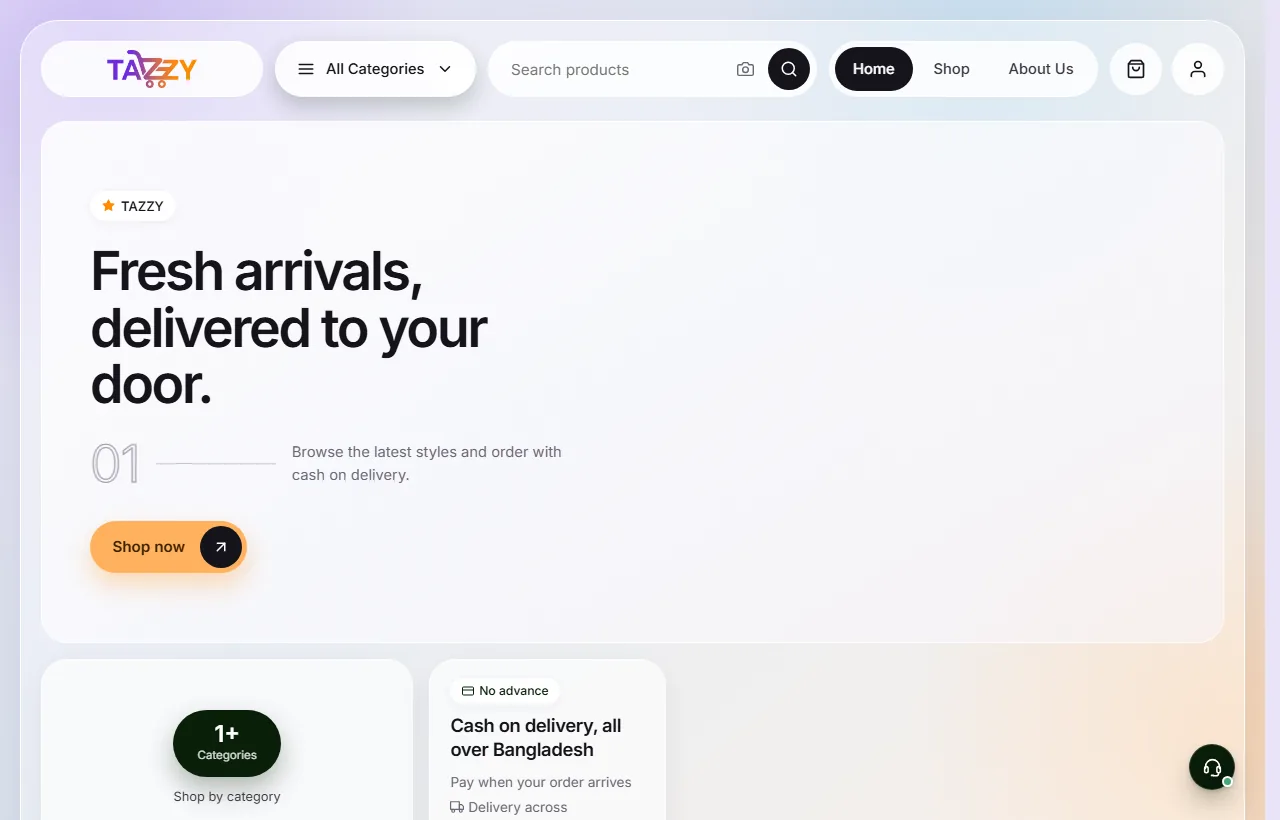
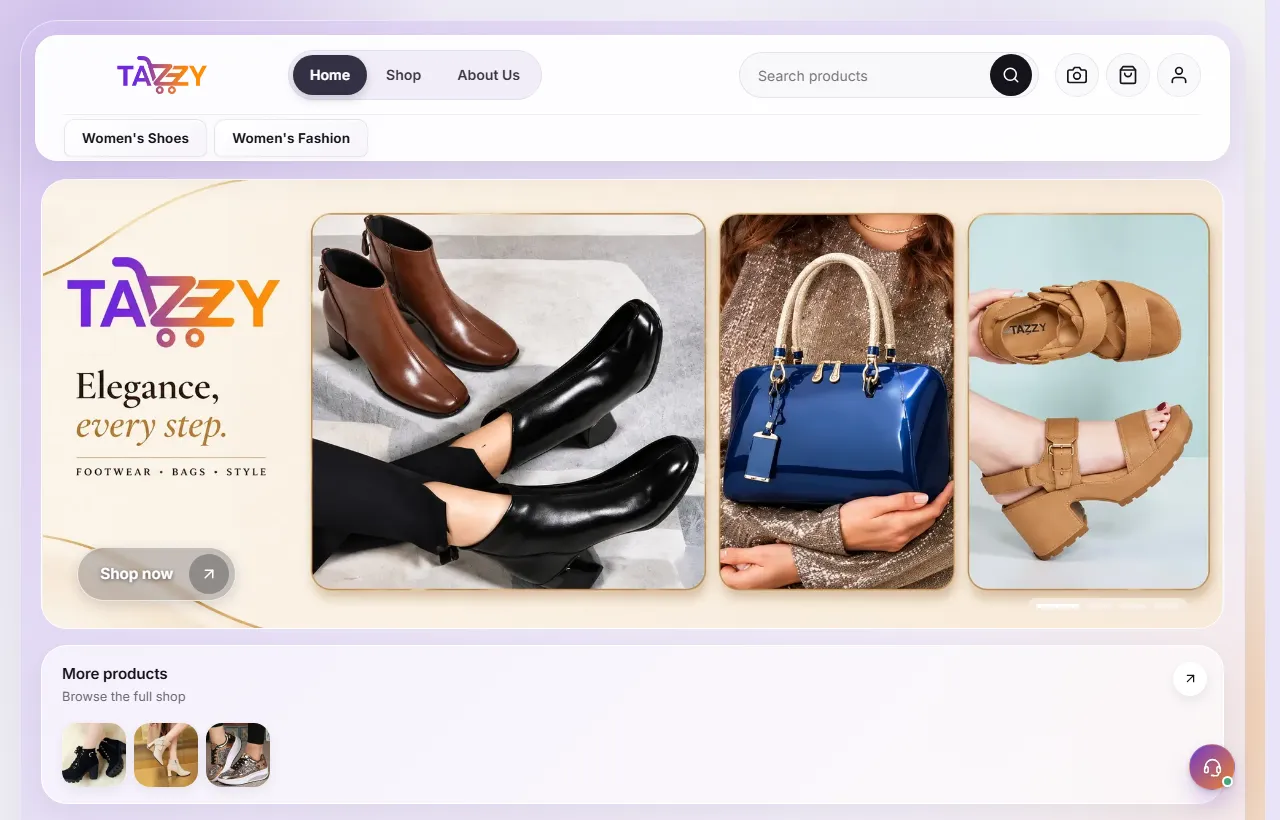
Update TAZZY project to match the live site
Refresh the project card, chat answers and AI prompt with the current
tazzybd.com details: ladies' fashion (shoes, bags, accessories), the
FRENDY BD rebrand, bKash/Nagad/Rocket/Upay/card payments, sale and
pre-order labels. Replace the screenshot with a fresh capture and bump
the sitemap lastmod.

diff --git a/index.html b/index.html
@@ -1591,12 +1591,13 @@ body.ask-open .ask-panel{opacity:1;visibility:visible;transform:none}
         </div>
         <h3>TAZZY</h3>
         <p class="p-tagline">Premium Fashion &amp; Footwear in Bangladesh</p>
-        <p class="p-desc">An online store for fashion and footwear, built for shoppers across Bangladesh. We designed and custom-built the whole storefront — no WordPress, no page builders. Customers browse by category, search products, add to cart and order with cash on delivery to all 64 districts, with order tracking and WhatsApp support one tap away.</p>
+        <p class="p-desc">The online home of TAZZY (formerly FRENDY BD), a ladies&rsquo; fashion brand from Dhaka selling shoes, boots, bags and accessories across Bangladesh. We designed and custom-built the whole storefront — no WordPress, no page builders. Shoppers browse by category, see sale prices and pre-order items, and check out with cash on delivery, bKash, Nagad or card, delivered to all 64 districts.</p>
         <ul class="feat">
-          <li><svg><use href="#i-check"/></svg>Category catalog with product search</li>
+          <li><svg><use href="#i-check"/></svg>Category catalog with search, sale badges and pre-order / sold-out labels</li>
           <li><svg><use href="#i-check"/></svg>Cart, checkout and customer accounts</li>
-          <li><svg><use href="#i-check"/></svg>Cash on delivery across all 64 districts, with order tracking</li>
-          <li><svg><use href="#i-check"/></svg>WhatsApp order support, size guide and returns pages</li>
+          <li><svg><use href="#i-check"/></svg>Cash on delivery, bKash, Nagad, Rocket, Upay and cards</li>
+          <li><svg><use href="#i-check"/></svg>Delivery to all 64 districts with order tracking</li>
+          <li><svg><use href="#i-check"/></svg>Call &amp; WhatsApp order support, size guide and returns pages</li>
           <li><svg><use href="#i-check"/></svg>Installable PWA, mobile-first and SEO-friendly</li>
         </ul>
         <div class="svc-tags">
@@ -2928,8 +2929,8 @@ if (hintToast) {
       bn: "আমরা শুরু থেকে শেষ পর্যন্ত বানাই:\n01 Frontend — প্রোডাক্টের চেহারা\n02 Backend — ইঞ্জিন রুম\n03 UI/UX Design\n04 Deploy & Maintain\nবিজনেস ওয়েবসাইট, ই-কমার্স স্টোর আর ওয়েব অ্যাপ।",
       acts: [{ t: 'See services →', g: 'services' }] },
     { r: /portfolio|sample|example|previous work|zuberee|tazzy|কাজ দেখ|পোর্টফোলিও|\bwork\b/i,
-      en: "Recent builds: TAZZY (tazzybd.com) — a fashion & footwear store with cash on delivery across Bangladesh; and Zuberee (zuberee.com) — a full e-commerce platform with storefront, admin panel, orders and payments. All hand-built.",
-      bn: "সাম্প্রতিক কাজ: TAZZY (tazzybd.com) — সারা বাংলাদেশে ক্যাশ অন ডেলিভারিসহ ফ্যাশন ও ফুটওয়্যার স্টোর; আর Zuberee (zuberee.com) — স্টোরফ্রন্ট, admin panel, অর্ডার, পেমেন্টসহ পূর্ণ ই-কমার্স প্ল্যাটফর্ম। পুরোটাই হাতে বানানো।",
+      en: "Recent builds: TAZZY (tazzybd.com) — a ladies' fashion & footwear store with cash on delivery, bKash, Nagad and card payments across Bangladesh; and Zuberee (zuberee.com) — a full e-commerce platform with storefront, admin panel, orders and payments. All hand-built.",
+      bn: "সাম্প্রতিক কাজ: TAZZY (tazzybd.com) — সারা বাংলাদেশে ক্যাশ অন ডেলিভারি, বিকাশ, নগদ ও কার্ড পেমেন্টসহ লেডিস ফ্যাশন ও ফুটওয়্যার স্টোর; আর Zuberee (zuberee.com) — স্টোরফ্রন্ট, admin panel, অর্ডার, পেমেন্টসহ পূর্ণ ই-কমার্স প্ল্যাটফর্ম। পুরোটাই হাতে বানানো।",
       acts: [{ t: 'See the work →', g: 'projects' }] },
     { r: /contact|whatsapp|phone|number|e-?mail|\bcall\b|reach|নম্বর|নাম্বার|যোগাযোগ|ইমেইল/i,
       en: "Fastest is WhatsApp — we reply within 24 hours. Email works too: hello.therawbros@gmail.com",

diff --git a/functions/api/ask.js b/functions/api/ask.js
@@ -43,7 +43,7 @@ Why TRB: 100% custom code with no templates, page builders or WordPress; direct 
 
 Tech stack: React, Next.js, JavaScript, TypeScript, Tailwind CSS, Bootstrap, Vite; Node.js, Express.js, Python, REST APIs, PostgreSQL, SQL, MongoDB, Firebase, Firestore; Git, GitHub, Docker, Vercel, Netlify, Cloudflare, Postman; Figma, Photoshop, Canva, Premiere Pro; also C, C++, Kali Linux, XGBoost, VS Code.
 
-Work: TAZZY (tazzybd.com), the latest launch: a live online store for fashion and footwear in Bangladesh, custom-built by TRB with Next.js and React. Features: category catalog, product search, cart, customer accounts, cash on delivery to all 64 districts, order tracking, WhatsApp order support, size guide, and an installable mobile-first PWA.
+Work: TAZZY (tazzybd.com), the latest launch: a live online store for TAZZY (formerly FRENDY BD), a Dhaka-based ladies' fashion brand selling shoes, boots, bags and accessories across Bangladesh, custom-built by TRB with Next.js and React. Features: category catalog, product search, sale badges and pre-order / sold-out labels, cart, customer accounts, cash on delivery plus bKash, Nagad, Rocket, Upay and card payments, delivery to all 64 districts, order tracking, call and WhatsApp order support, refund & returns page, size guide, and an installable mobile-first PWA.
 Also Zuberee (zuberee.com), a live online store for premium imported goods: women's and kids' fashion, shoes, bags and seasonal collections. TRB designed and custom-built the storefront, REST API, database and admin panel with Next.js, React, Node.js and PostgreSQL. Features: category catalog, cart, checkout, customer accounts, WhatsApp ordering, installable PWA with push notifications, an admin dashboard for orders, stock and courier, and a mobile-first SEO-friendly storefront. More projects are on the way.
 
 Pricing: depends on pages, features and integrations. A short brief gets a fixed written quote before work starts, with no hidden costs. Never state or estimate a price, discount or exact delivery date. The brief form offers these budget ranges to choose from, which are not prices: under ৳50,000; ৳50,000-৳1,50,000; ৳1,50,000-৳5,00,000; ৳5,00,000+; or let's discuss.
